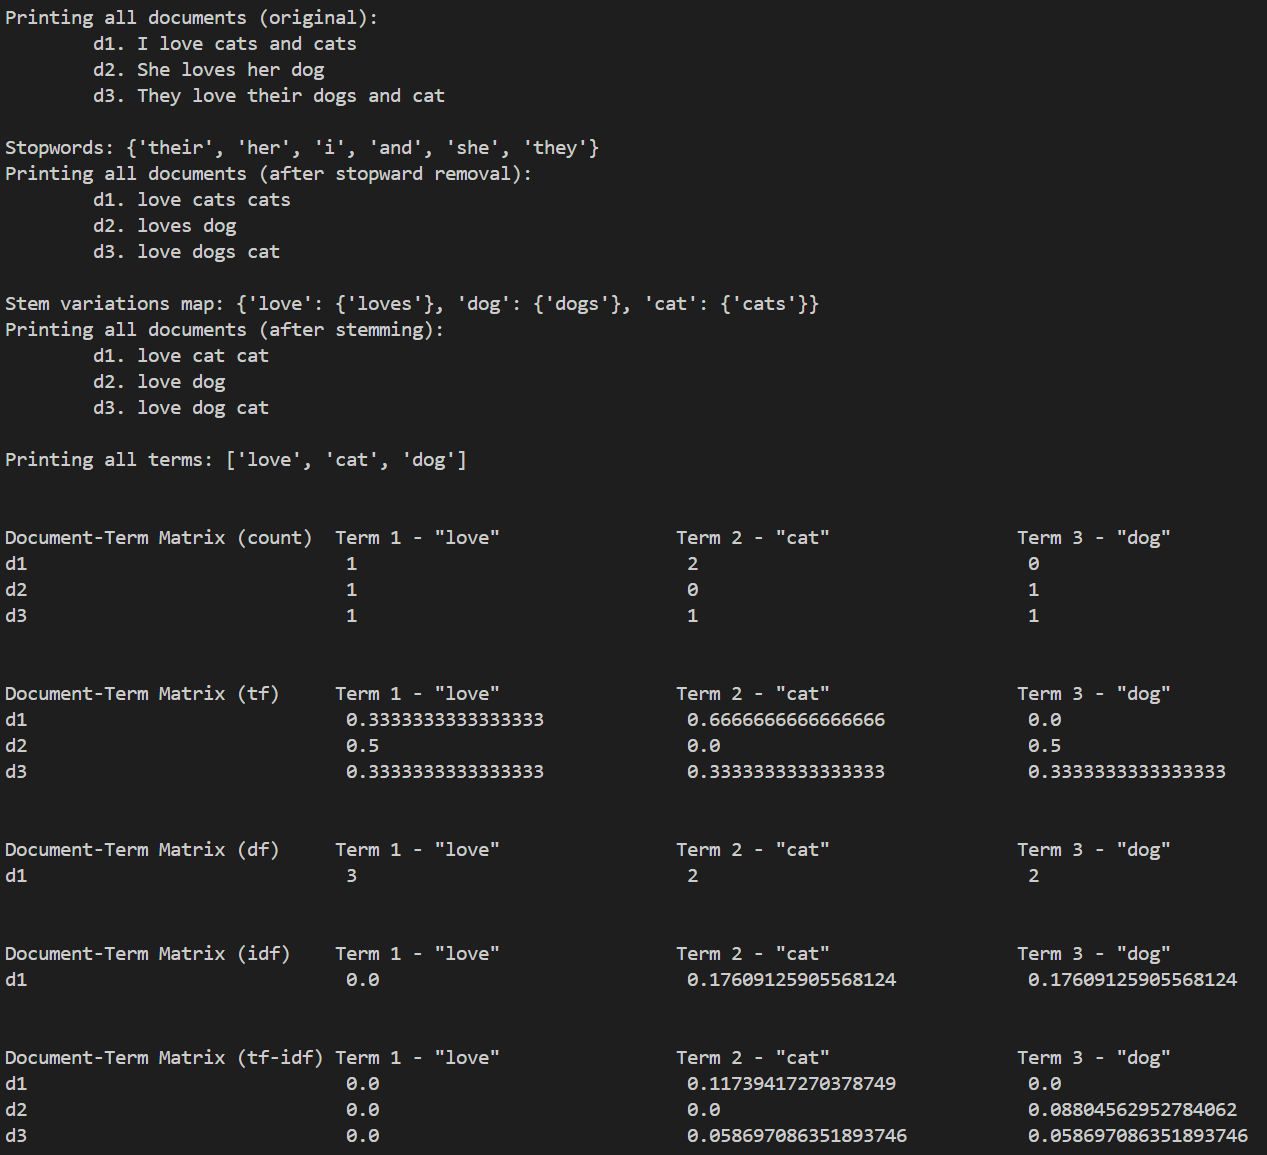
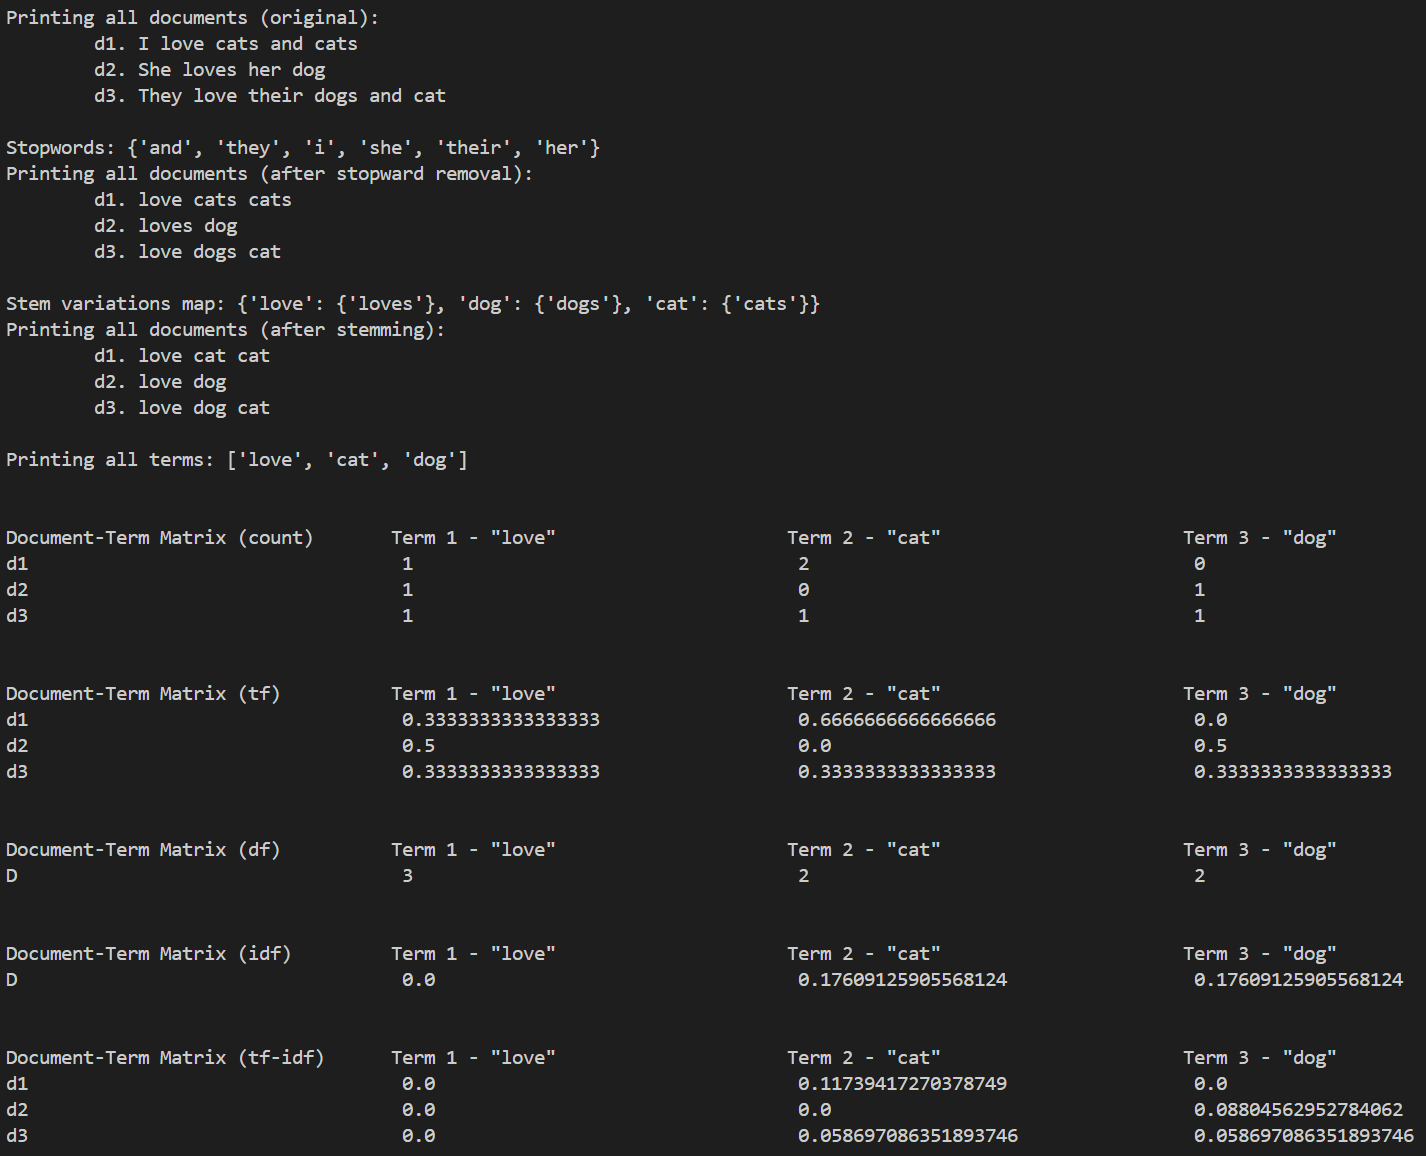
Added comments and updated labels

diff --git a/assignment_1/indexing.py b/assignment_1/indexing.py
@@ -1,22 +1,23 @@
-#-------------------------------------------------------------------------
+#---------------------------------------------------------------------------------------------------------------------------------------------
 # AUTHOR: Abdullah Irfan Siddiqui
 # FILENAME: indexing.py
 # SPECIFICATION: A program to index terms in a document and printing out the tf-idf weights of the terms relative to their documents
 # FOR: CS 5180- Assignment #1
 # TIME SPENT: 5 hours
-#-----------------------------------------------------------*/
+#---------------------------------------------------------------------------------------------------------------------------------------------
 
-# Importing some Python libraries
+# Importing some Python libraries ------------------------------------------------------------------------------------------------------------
 import math, csv
 documents = []
 
+# Function to print the documents (with labels) and their contents
 def print_docs(message, documents):
     print(message)
     for i in range(len(documents)):
         print(f'\td{i + 1}.', documents[i])
     print()
 
-# Reading the data in a csv file
+# Reading the data in a csv file -------------------------------------------------------------------------------------------------------------
 with open('collection.csv', 'r') as csvfile:
     reader = csv.reader(csvfile)    
     for i, row in enumerate(reader):
@@ -25,7 +26,7 @@ with open('collection.csv', 'r') as csvfile:
 
 print_docs("\nPrinting all documents (original):", documents)
 
-# Conducting stopword removal for pronouns/conjunctions. Hint: use a set to define your stopwords.
+# Conducting stopword removal for pronouns/conjunctions. Hint: use a set to define your stopwords. -------------------------------------------
 stop_words = {'i', 'and', 'she', 'her', 'they', 'their'}
 print("Stopwords:", stop_words)
 
@@ -39,9 +40,10 @@ for i in range(len(documents)):
 print_docs("Printing all documents (after stopward removal):", documents)
 
 
-# Conducting stemming. Hint: use a dictionary to map word variations to their stem.
+# Conducting stemming. Hint: use a dictionary to map word variations to their stem. ----------------------------------------------------------
 stemming = {}
 
+# Function to check if a stem exists for a word, and to return the stem if found or None, with a status message of success or failure
 def does_stem_exist_for_(word):
     stems = stemming.keys()
     if not stems:
@@ -72,6 +74,7 @@ for doc in documents:
 
 print("Stem variations map:", stemming)
 
+# Function to retrieve the stem of a word
 def get_stem_for_(word):
     for stem, variations in stemming.items():
         if word == stem or word in variations:
@@ -86,7 +89,7 @@ for i in range(len(documents)):
 
 print_docs("Printing all documents (after stemming):", documents)
 
-# Identifying the index terms.
+# Identifying the index terms. ----------------------------------------------------------------------------------------------------------------
 terms = []
 for doc in documents:
     words = doc.split()
@@ -96,49 +99,55 @@ for doc in documents:
 
 print("Printing all terms:", terms, '\n')
 
-# Building the document-term matrix by using the tf-idf weights.
-term_count_matrix = [
+# Building the document-term matrix by using the tf-idf weights. ------------------------------------------------------------------------------
+
+# Calculating the term counts per document
+term_counts = [
     [doc.split().count(term) for term in terms]
     for doc in documents
 ]
 
-term_frequency_matrix = [
+# Calculating the term frequencies per document, i.e. the normalized term counts per document
+term_frequencies = [
     [term_count / sum(term_count_row) for term_count in term_count_row]
-    for term_count_row in term_count_matrix
+    for term_count_row in term_counts
 ]
 
-document_frequency_matrix = [[]]
+# Calculating the document frequency per term, i.e. the number of documents that contain the term
+document_frequencies = [[]]
 for term in terms:
     document_frequency = 0
     for doc in documents:
         if term in doc:
             document_frequency += 1
-    document_frequency_matrix[0].append(document_frequency)
+    document_frequencies[0].append(document_frequency)
 
-inverse_document_frequency_matrix = [
-    [math.log10(len(documents) / document_frequency) for document_frequency in document_frequency_matrix[0]]
+# Calculating the inverse document frequencies, i.e. the inverse log ratio of the total number of documents to the document frequency per term
+inverse_document_frequencies = [
+    [math.log10(len(documents) / document_frequency) for document_frequency in document_frequencies[0]]
 ]
 
-term_frequency_inverse_document_frequency_matrix = [
-    [(term_frequency_row[i] * inverse_document_frequency_matrix[0][i]) for i in range(len(term_frequency_row))] 
-    for term_frequency_row in term_frequency_matrix
+# Calculating the term frequency - inverse document frequency weights per term
+term_frequency_inverse_document_frequencies = [
+    [(term_frequency_row[i] * inverse_document_frequencies[0][i]) for i in range(len(term_frequency_row))] 
+    for term_frequency_row in term_frequencies
 ]
 
-# Printing the document-term matrix.
+# Printing the document-term matrix. ----------------------------------------------------------------------------------------------------------
 def print_doc_term_matrix(metric, doc_term_matrix):
     print(
-        ("{:<30} " * (len(doc_term_matrix[0]) + 1)).format(
+        ("{:<35} " * (len(doc_term_matrix[0]) + 1)).format(
             f"\nDocument-Term Matrix ({metric})", 
             *(f'Term {i + 1} - "{terms[i]}"' for i in range(len(terms)))
         )
     )
     for i in range(len(doc_term_matrix)):
         row = doc_term_matrix[i]
-        print(("{:<30} " * (len(row) + 1)).format(f"d{i + 1}", *row))
+        print(("{:<35} " * (len(row) + 1)).format(f"d{i + 1}" if not metric in ["df", "idf"] else "D", *row))
     print()
 
-print_doc_term_matrix("count", term_count_matrix)
-print_doc_term_matrix("tf", term_frequency_matrix)
-print_doc_term_matrix("df", document_frequency_matrix)
-print_doc_term_matrix("idf", inverse_document_frequency_matrix)
-print_doc_term_matrix("tf-idf", term_frequency_inverse_document_frequency_matrix)
+print_doc_term_matrix("count", term_counts)
+print_doc_term_matrix("tf", term_frequencies)
+print_doc_term_matrix("df", document_frequencies)
+print_doc_term_matrix("idf", inverse_document_frequencies)
+print_doc_term_matrix("tf-idf", term_frequency_inverse_document_frequencies)
